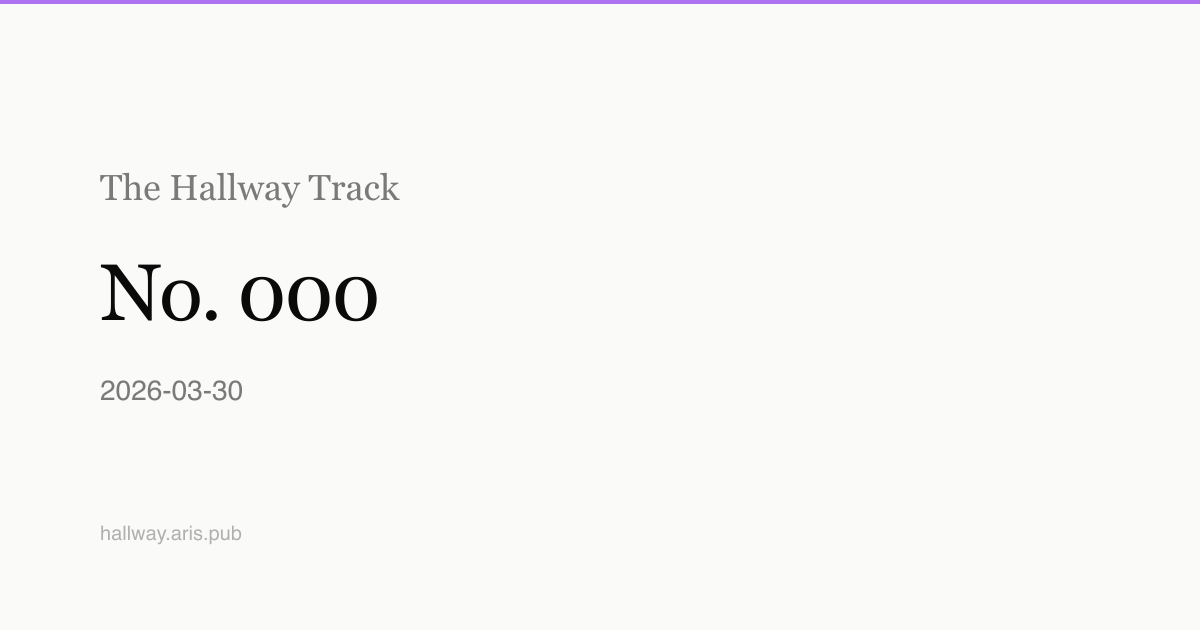
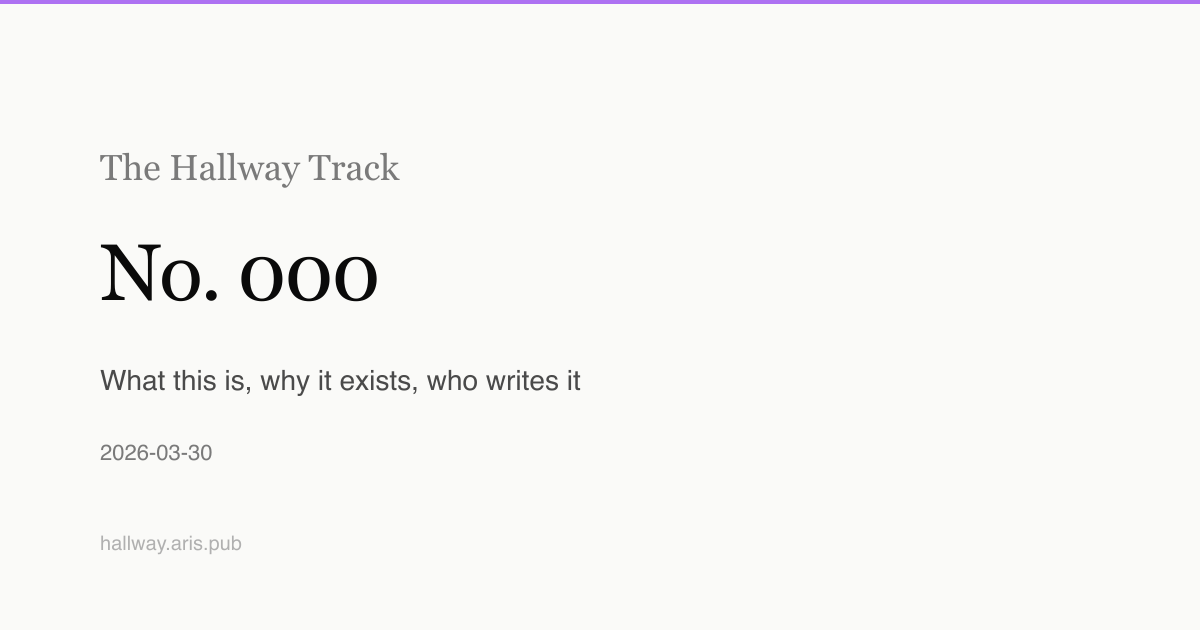
Include edition title in og:images, always regenerate

diff --git a/scripts/gen-og-images.js b/scripts/gen-og-images.js
@@ -5,14 +5,28 @@ const sharp = require("sharp");
 const EDITIONS_DIR = path.join(__dirname, "..", "src", "no");
 const IMAGES_DIR = path.join(__dirname, "..", "src", "images", "og");
 
-function makeSvg(title, subtitle) {
+function makeSvg(number, title, date) {
+  const titleLine = title
+    ? `<text x="100" y="390" font-family="sans-serif" font-size="28" fill="#4a4a4a">${title}</text>`
+    : "";
   return `<svg xmlns="http://www.w3.org/2000/svg" width="1200" height="630" viewBox="0 0 1200 630">
   <rect width="1200" height="630" fill="#fafaf8"/>
   <rect x="0" y="0" width="1200" height="4" fill="#AD71F2"/>
-  <text x="100" y="200" font-family="Georgia, Garamond, serif" font-size="36" fill="#7a7a7a">The Hallway Track</text>
-  <text x="100" y="320" font-family="Georgia, Garamond, serif" font-size="80" font-weight="400" fill="#0a0a0a" letter-spacing="-2">${title}</text>
-  <text x="100" y="400" font-family="sans-serif" font-size="28" fill="#7a7a7a">${subtitle}</text>
-  <text x="100" y="540" font-family="sans-serif" font-size="20" fill="#b0b0b0">hallway.aris.pub</text>
+  <text x="100" y="180" font-family="Georgia, Garamond, serif" font-size="36" fill="#7a7a7a">The Hallway Track</text>
+  <text x="100" y="300" font-family="Georgia, Garamond, serif" font-size="80" font-weight="400" fill="#0a0a0a" letter-spacing="-2">No. ${number}</text>
+  ${titleLine}
+  <text x="100" y="460" font-family="sans-serif" font-size="22" fill="#7a7a7a">${date}</text>
+  <text x="100" y="550" font-family="sans-serif" font-size="20" fill="#b0b0b0">hallway.aris.pub</text>
+</svg>`;
+}
+
+function makeDefaultSvg() {
+  return `<svg xmlns="http://www.w3.org/2000/svg" width="1200" height="630" viewBox="0 0 1200 630">
+  <rect width="1200" height="630" fill="#fafaf8"/>
+  <rect x="0" y="0" width="1200" height="4" fill="#AD71F2"/>
+  <text x="100" y="260" font-family="Georgia, Garamond, serif" font-size="64" font-weight="400" fill="#0a0a0a" letter-spacing="-1">The Hallway Track</text>
+  <text x="100" y="340" font-family="sans-serif" font-size="28" fill="#7a7a7a">How AI is affecting the practice of science.</text>
+  <text x="100" y="520" font-family="sans-serif" font-size="20" fill="#b0b0b0">hallway.aris.pub</text>
 </svg>`;
 }
 
@@ -29,16 +43,17 @@ async function main() {
     const frontmatter = match[1];
     const numMatch = frontmatter.match(/number:\s*(\d+)/);
     const dateMatch = frontmatter.match(/date:\s*(\S+)/);
+    const titleMatch = frontmatter.match(/title:\s*"(.+?)"/);
     const draftMatch = frontmatter.match(/draft:\s*true/);
     if (!numMatch || draftMatch) continue;
 
     const number = numMatch[1].padStart(3, "0");
     const date = dateMatch ? dateMatch[1] : "";
+    const title = titleMatch ? titleMatch[1] : "";
     const outPath = path.join(IMAGES_DIR, `${number}.png`);
 
-    if (fs.existsSync(outPath)) continue;
-
-    const svg = makeSvg(`No. ${number}`, date);
+    // Always regenerate to pick up title changes
+    const svg = makeSvg(number, title, date);
     await sharp(Buffer.from(svg)).resize(1200, 630).png().toFile(outPath);
     console.log(`Generated ${outPath}`);
   }
@@ -46,7 +61,7 @@ async function main() {
   // Default image
   const defaultPath = path.join(__dirname, "..", "src", "images", "og-default.png");
   if (!fs.existsSync(defaultPath)) {
-    const svg = makeSvg("The Hallway Track", "How AI is affecting the practice of science.");
+    const svg = makeDefaultSvg();
     await sharp(Buffer.from(svg)).resize(1200, 630).png().toFile(defaultPath);
     console.log(`Generated ${defaultPath}`);
   }
